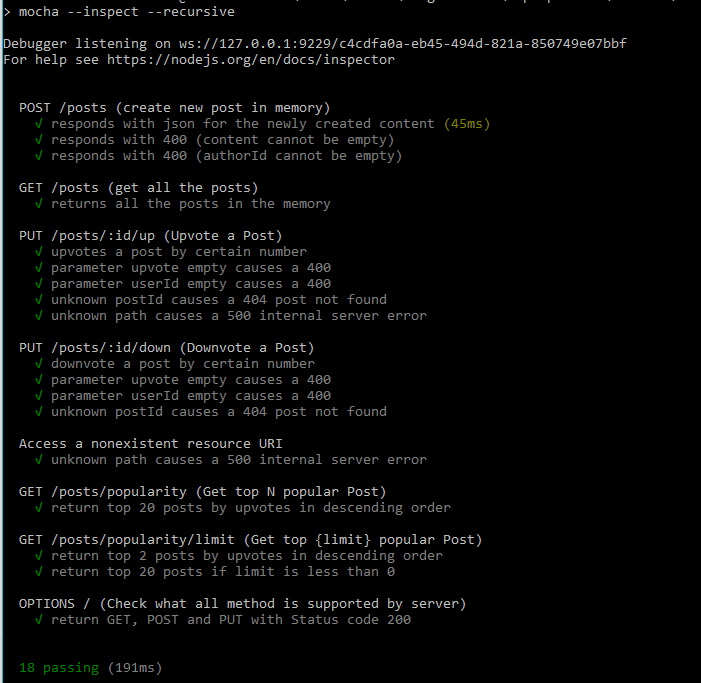
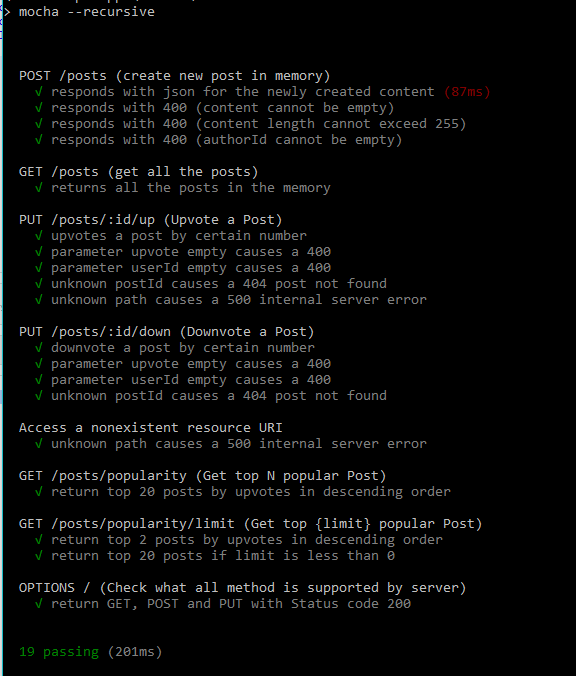
added test case for content length enforcement

diff --git a/test/controllers/post.controller.test.js b/test/controllers/post.controller.test.js
@@ -15,6 +15,11 @@ describe('POST /posts (create new post in memory)', function () {
 		"authorId":"userId-1"
 	}
 
+	const post_payload_exceed_length = {
+		"content" : new Array(256).join( 'elements' ),
+		"authorId":"userId-1"
+	}
+
 	const post_payload_content_missing = {
 		"authorId":"userId-1"
 	}
@@ -33,6 +38,7 @@ describe('POST /posts (create new post in memory)', function () {
 	const empty_author_label = 'Post has to be associated with some User. UserId cannot be empty';
 	const invalid_json_label = 'The body of your request is not a valid JSON';
 	const server_error_lable = 'The server encountered an unexpected condition which prevented it from fulfilling the request. Double check the URL. Double check the URL';
+	const content_length_exceed_label = 'Post Content cannot be greater than 256 characters';
 
 	it('responds with json for the newly created content', function(done) {
 		request(localurl)
@@ -81,6 +87,25 @@ describe('POST /posts (create new post in memory)', function () {
 				res.body.should.be.type('object');
 				res.body.should.have.property('message');
 				res.body.should.have.ownProperty('message').equal(empty_post_label);
+				done();
+			})
+	});
+
+	it('responds with 400 (content length cannot exceed 255)', function(done) {
+		request(localurl)
+			.post('/posts')
+			.send(post_payload_exceed_length)
+			.set('Accept', 'application/json')
+			.expect('Content-Type', /json/)
+			.expect(400) //Status code Malfunction
+			.end(function(err,res) {
+				if(err) {
+					throw done(err);
+				}
+				/* check if properties are present or not */
+				res.body.should.be.type('object');
+				res.body.should.have.property('message');
+				res.body.should.have.ownProperty('message').equal(content_length_exceed_label);
 				done();
 			})
 	});
